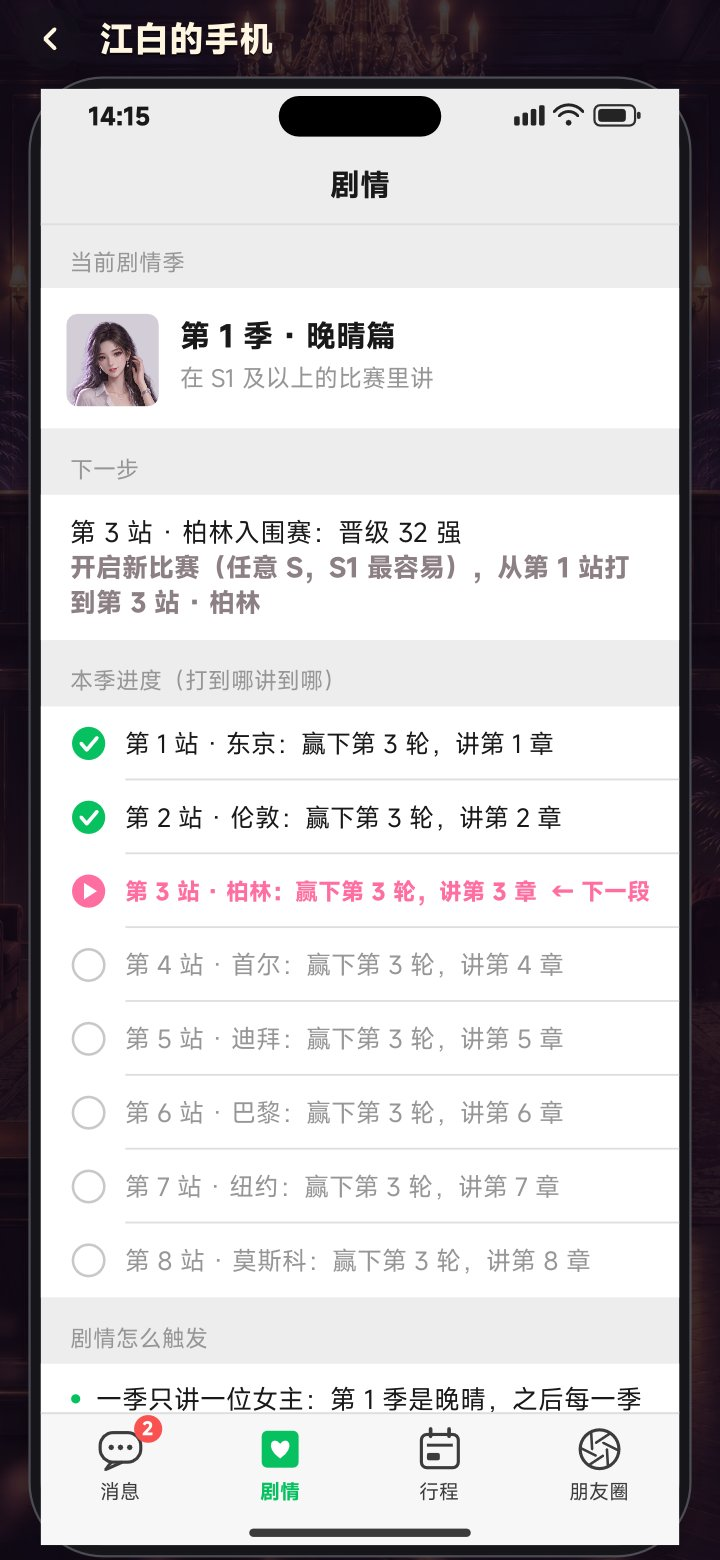
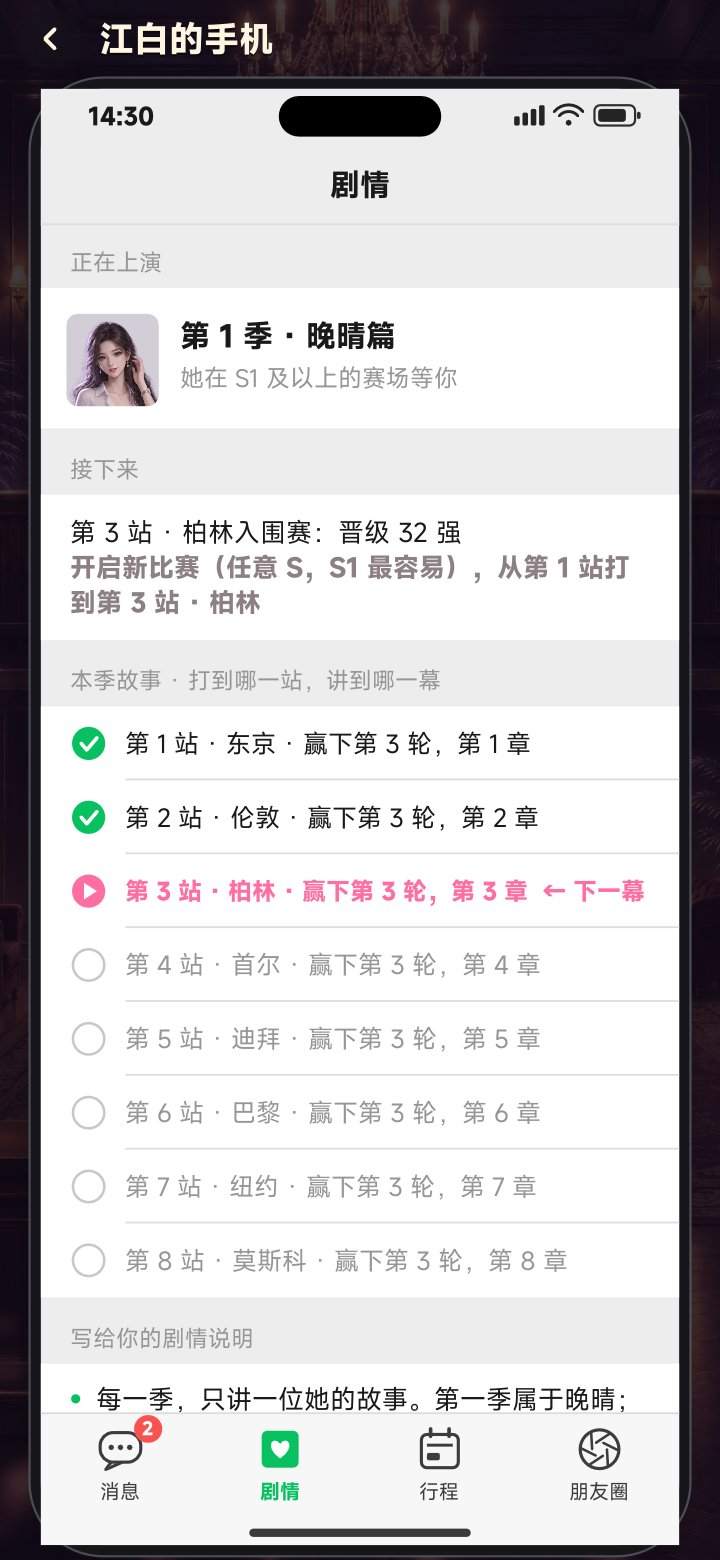
jokergirls/story-1114: 剧情说明改成制作组口吻

diff --git a/jokergirls/story-1114/index.html b/jokergirls/story-1114/index.html
@@ -16,31 +16,41 @@ b{color:#ff8fb6}
 <h1>剧情触发：手机新增「剧情」页 + 没选女主时的引导</h1>
 <div class="note">11-14 · 截图都是游戏本体实机渲染 · 还没有提交审核，等你确认</div>
 
-<h2>加了什么</h2>
+<h2>玩家在手机「剧情」页看到的说明（制作组口吻）</h2>
+<p class="note">标题：写给你的剧情说明</p>
 <ul>
-<li><b>手机新增「剧情」标签</b>（消息 / 剧情 / 行程 / 朋友圈）。这一页包括：
-  <ul>
-  <li>当前剧情季：第几季，讲谁，要 S 几；</li>
-  <li>下一步：和大厅的「下一目标」一致，比如告诉玩家 S 不够要先拿哪个冠军；</li>
-  <li>本季进度：8 站逐站列出，标成已讲 ✓、下一段 ▶ 或未到 ○，只说「打到哪一站、赢哪一轮」，不剧透内容；</li>
-  <li>剧情怎么触发：8 条规则，包括哪些局不讲剧情、输了怎么办、恋人篇的条件。</li>
-  </ul></li>
-<li><b>没选下一季女主时</b>：
-  <ul>
-  <li>每次启动游戏，进大厅后自动弹出「第 N 季 · 和谁相遇」。如果大厅已有别的弹窗，会等它关掉再弹。可以点「稍后再选」，下次启动还会再提示。</li>
-  <li>点「开启新比赛」时也会先弹选择。可以选一位，可以让「晚晴帮我选」随机一位，也可以「这局先不讲剧情，直接开打」。选好后自动把 S 调到她要求的档位再开赛。</li>
-  <li>手机右侧图标亮红点。「剧情」页里有绿色按钮「选下一季的女主」。</li>
-  <li>点大厅底部的「下一目标」，直接弹出选择。</li>
-  </ul></li>
-<li>有剧情季时点「下一目标」，打开手机「剧情」页。</li>
-<li>新增埋点：<code>season_nag</code>（自动弹出选择）。<code>season_pick</code> 加了 <code>from</code> 字段，记录玩家是从启动、开新比赛、手机还是大厅目标选的。</li>
+<li>每一季，只讲一位她的故事。第一季属于晚晴；之后的每一季，由你决定去见谁。</li>
+<li>第 N 季的故事，在 <b>S N 及以上</b>的赛场上演（第 9 季同样在 S8）。赛场不够高，她只会远远跟你打个招呼。</li>
+<li>故事跟着赛程走：每打到一站，就解锁新的一幕。第 1 站和第 6 站，她会亲自坐上第 3 轮的牌桌。</li>
+<li>捧起第 8 站的世界总冠军，这一季落幕，下一份对手名单会交到你手里。</li>
+<li>输了也没关系，她会等你。下一场接着讲，看过的不会再重播。</li>
+<li>每日挑战、挑战赛、牌谱码对局和夺冠后的加赛只比牌技、不推进故事；手机里把行程换成约会、告白局、回忆重打或自由比赛时，那一局也会先把本季故事放一放。</li>
+<li>其他女主坐镇时只会和你寒暄一句，她们的故事，留在属于她们的那一季。</li>
+<li>陪她走完一季后，牌技分 ≥60、心意分 ≥80、礼物分 ≥50，她会主动给你发消息，恋人篇从那里开始。</li>
+</ul>
+<p class="note" style="text-align:right">—— 制作组</p>
+
+<h2>其他文字（同一口吻）</h2>
+<ul>
+<li>页面分区：正在上演 / 接下来 / 本季故事 · 打到哪一站，讲到哪一幕 / 写给你的剧情说明</li>
+<li>还没选下一季：「第 2 季 · 等你选她」「对手名单已经送到。选中谁，下一场比赛就和她的故事一起开始」，按钮「翻开对手名单」</li>
+<li>正在讲：「她在 S2 及以上的赛场等你」；下一段标「← 下一幕」；最后一幕「捧起世界总冠军：这一季的结局」</li>
+<li>选人弹窗：「选一位吧，她会在 S2 及以上的赛场等你」「陪她走完这一季，才能翻开下一页名单」；选完提示「第 2 季 · 薇拉篇，开幕！去 S2 及以上的赛场见她」</li>
+<li>暂不选：启动时「我再想想（手机「剧情」里随时能选）」，开新比赛时「先打一局，回头再选」</li>
+<li>剧情关了：「剧情暂时关上了 · 想继续看她们的故事，去「设置」把剧情打开就好」；九季讲完：「九段故事都已落幕 · 新的故事正在路上」</li>
+</ul>
+
+<h2>什么时候会提示选人</h2>
+<ul>
+<li>每次启动游戏进大厅，自动弹出对手名单（有别的弹窗就等它关掉）</li>
+<li>点「开启新比赛」时先弹一次；选好后自动把 S 调到她的赛场</li>
+<li>手机亮红点；点大厅底部的目标栏也能直接打开名单</li>
 </ul>
 
 <div class="grid">
 <figure><img src="4_pick_popup.jpg"><figcaption>① 选下一季弹窗（启动游戏 / 开新比赛 / 手机都用这一个）：点头像选一位 →「就是她」，或「晚晴帮我选」</figcaption></figure>
-<figure><img src="1_phone_pick.jpg"><figcaption>② 还没选女主时的手机「剧情」页：大按钮直接选；下面是触发规则</figcaption></figure>
-<figure><img src="2_phone_season.jpg"><figcaption>③ 女主季（例：第 2 季薇拉）：要 S2；还没拿下 S1 冠军时，「下一步」会直接告诉玩家先去拿；本季 8 站进度</figcaption></figure>
-<figure><img src="3_phone_main.jpg"><figcaption>④ 第 1 季晚晴篇：第 1、2 章讲过，下一段是第 3 站柏林</figcaption></figure>
-<figure><img src="5_phone_rules.jpg"><figcaption>⑤ 整页（长截图）：当前季 → 下一步 → 本季进度 → 剧情怎么触发</figcaption></figure>
+<figure><img src="1_phone_pick.jpg"><figcaption>② 还没选人时的手机「剧情」页：「翻开对手名单」+ 写给你的剧情说明</figcaption></figure>
+<figure><img src="3_phone_main.jpg"><figcaption>④ 第 1 季晚晴篇：第 1、2 章已讲，下一幕在第 3 站柏林</figcaption></figure>
+<figure><img src="5_phone_rules.jpg"><figcaption>⑤ 女主季整页（例：第 2 季薇拉）：正在上演 → 接下来 → 本季故事 → 写给你的剧情说明</figcaption></figure>
 </div>
 </main></body></html>
